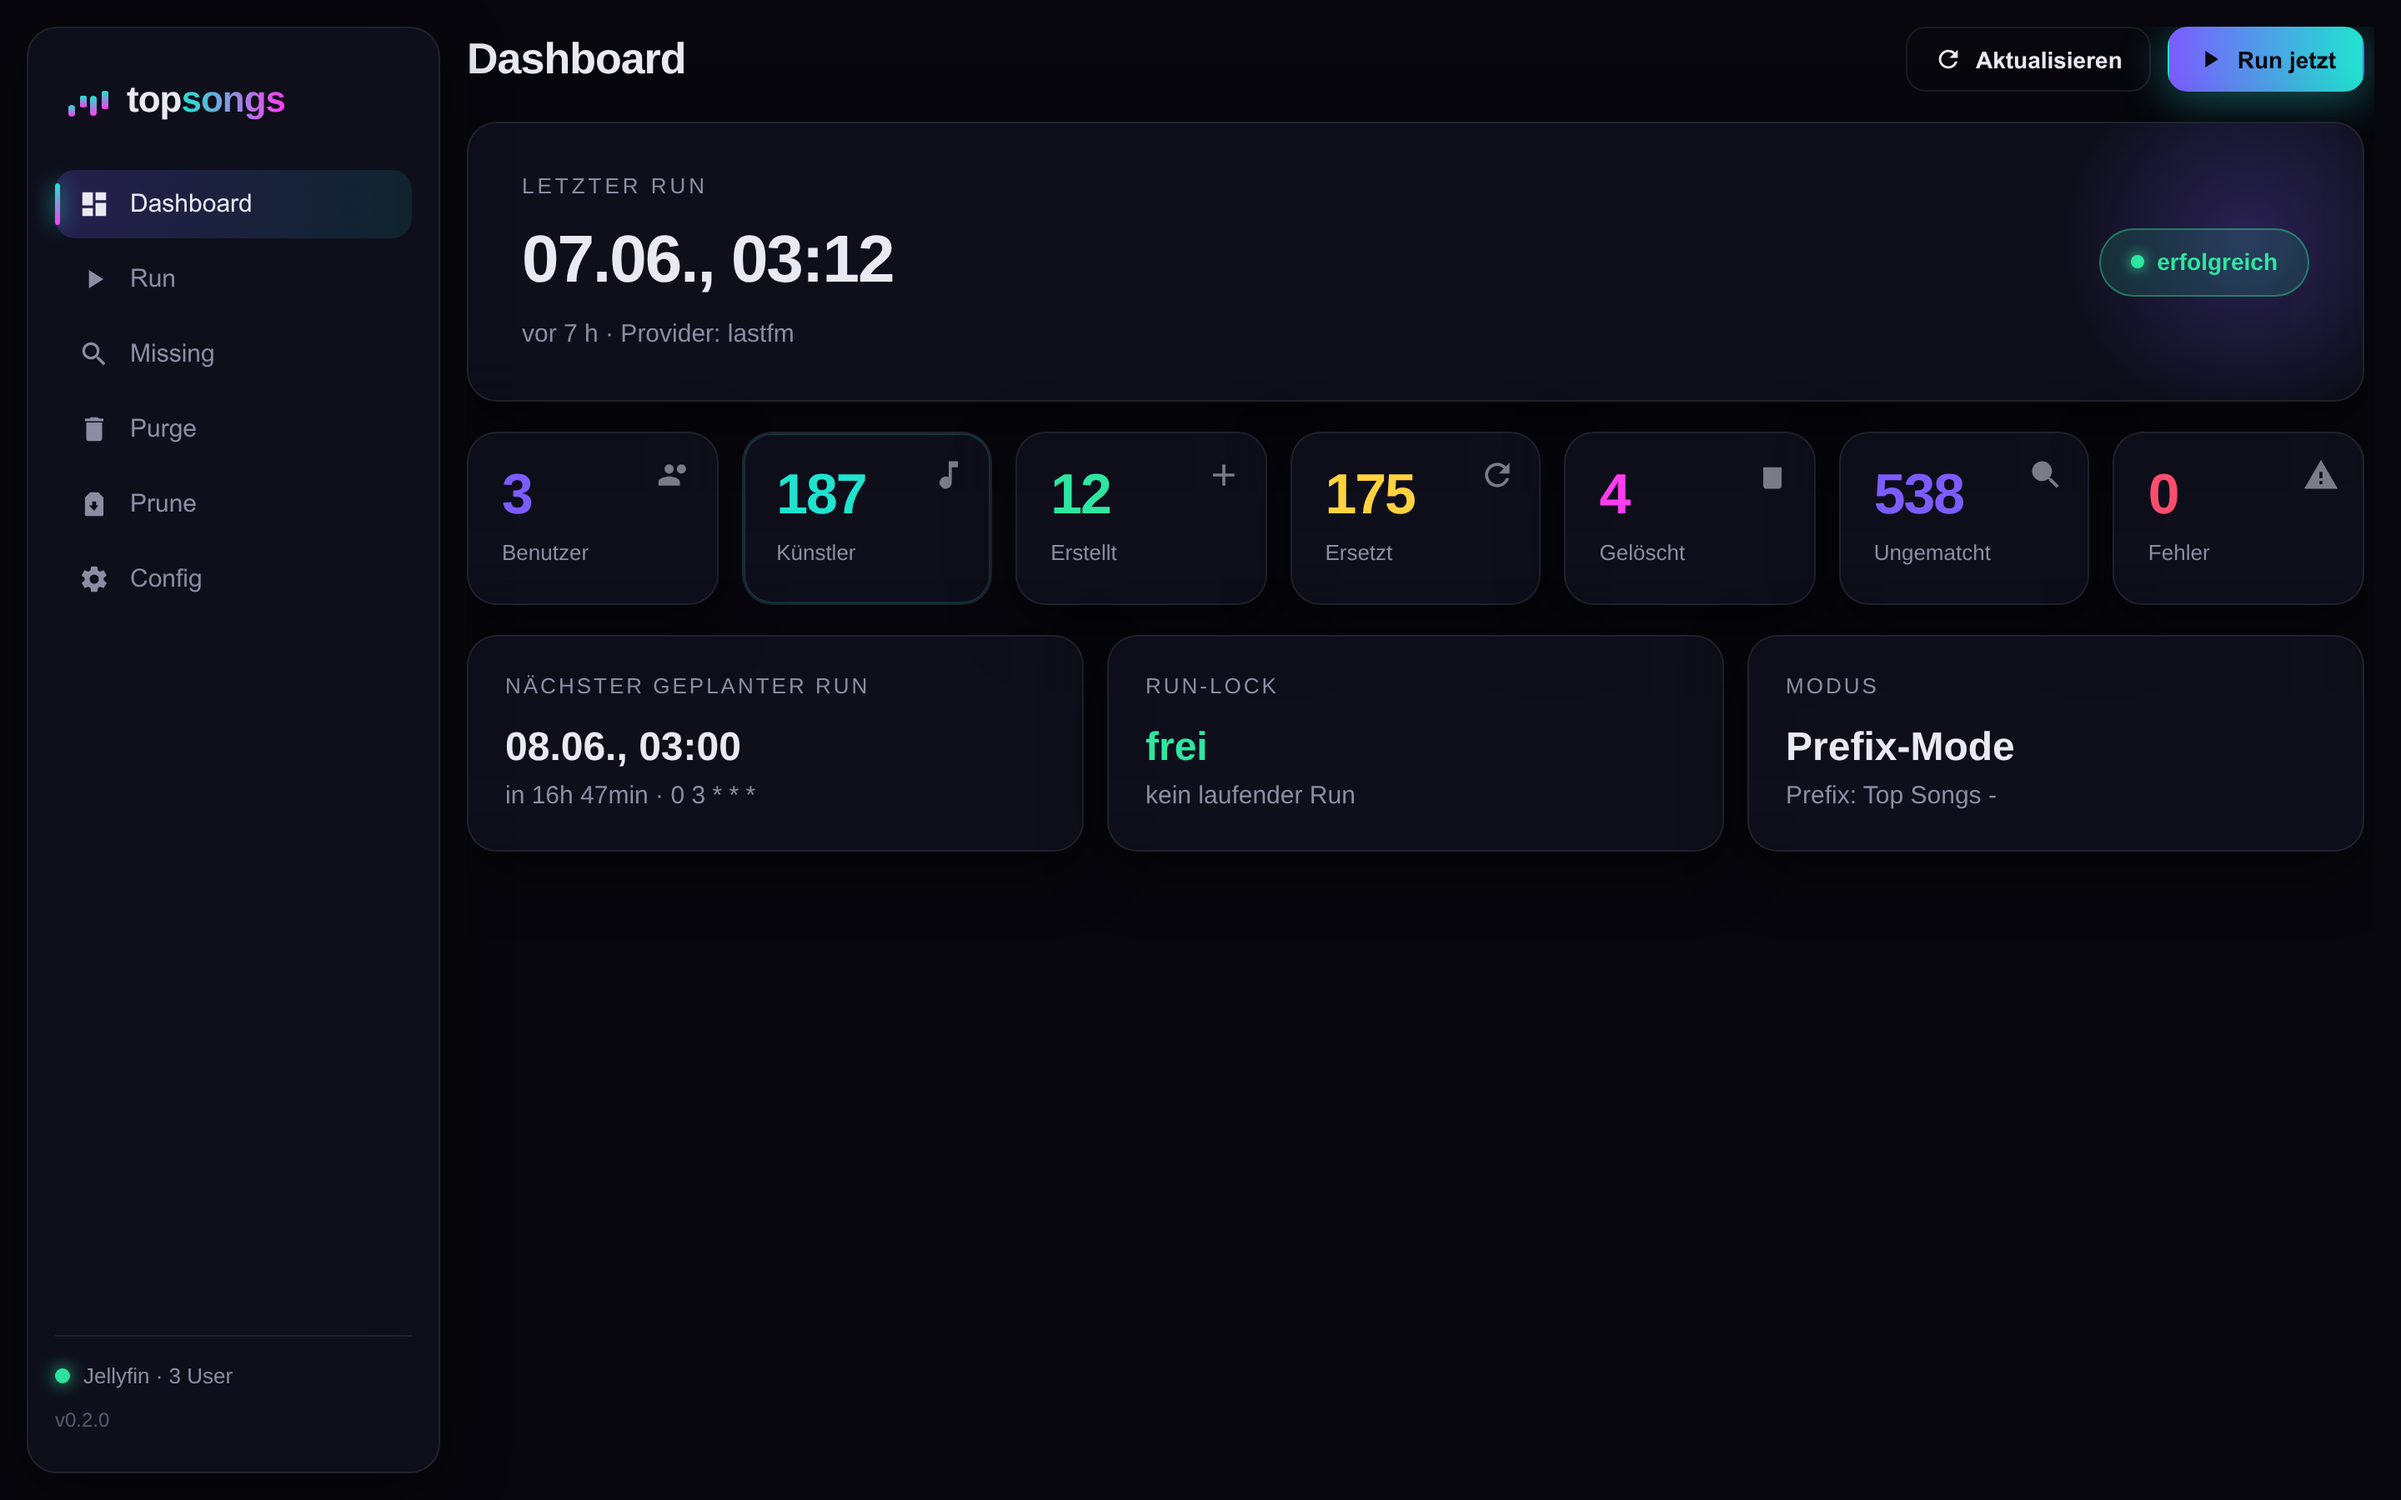
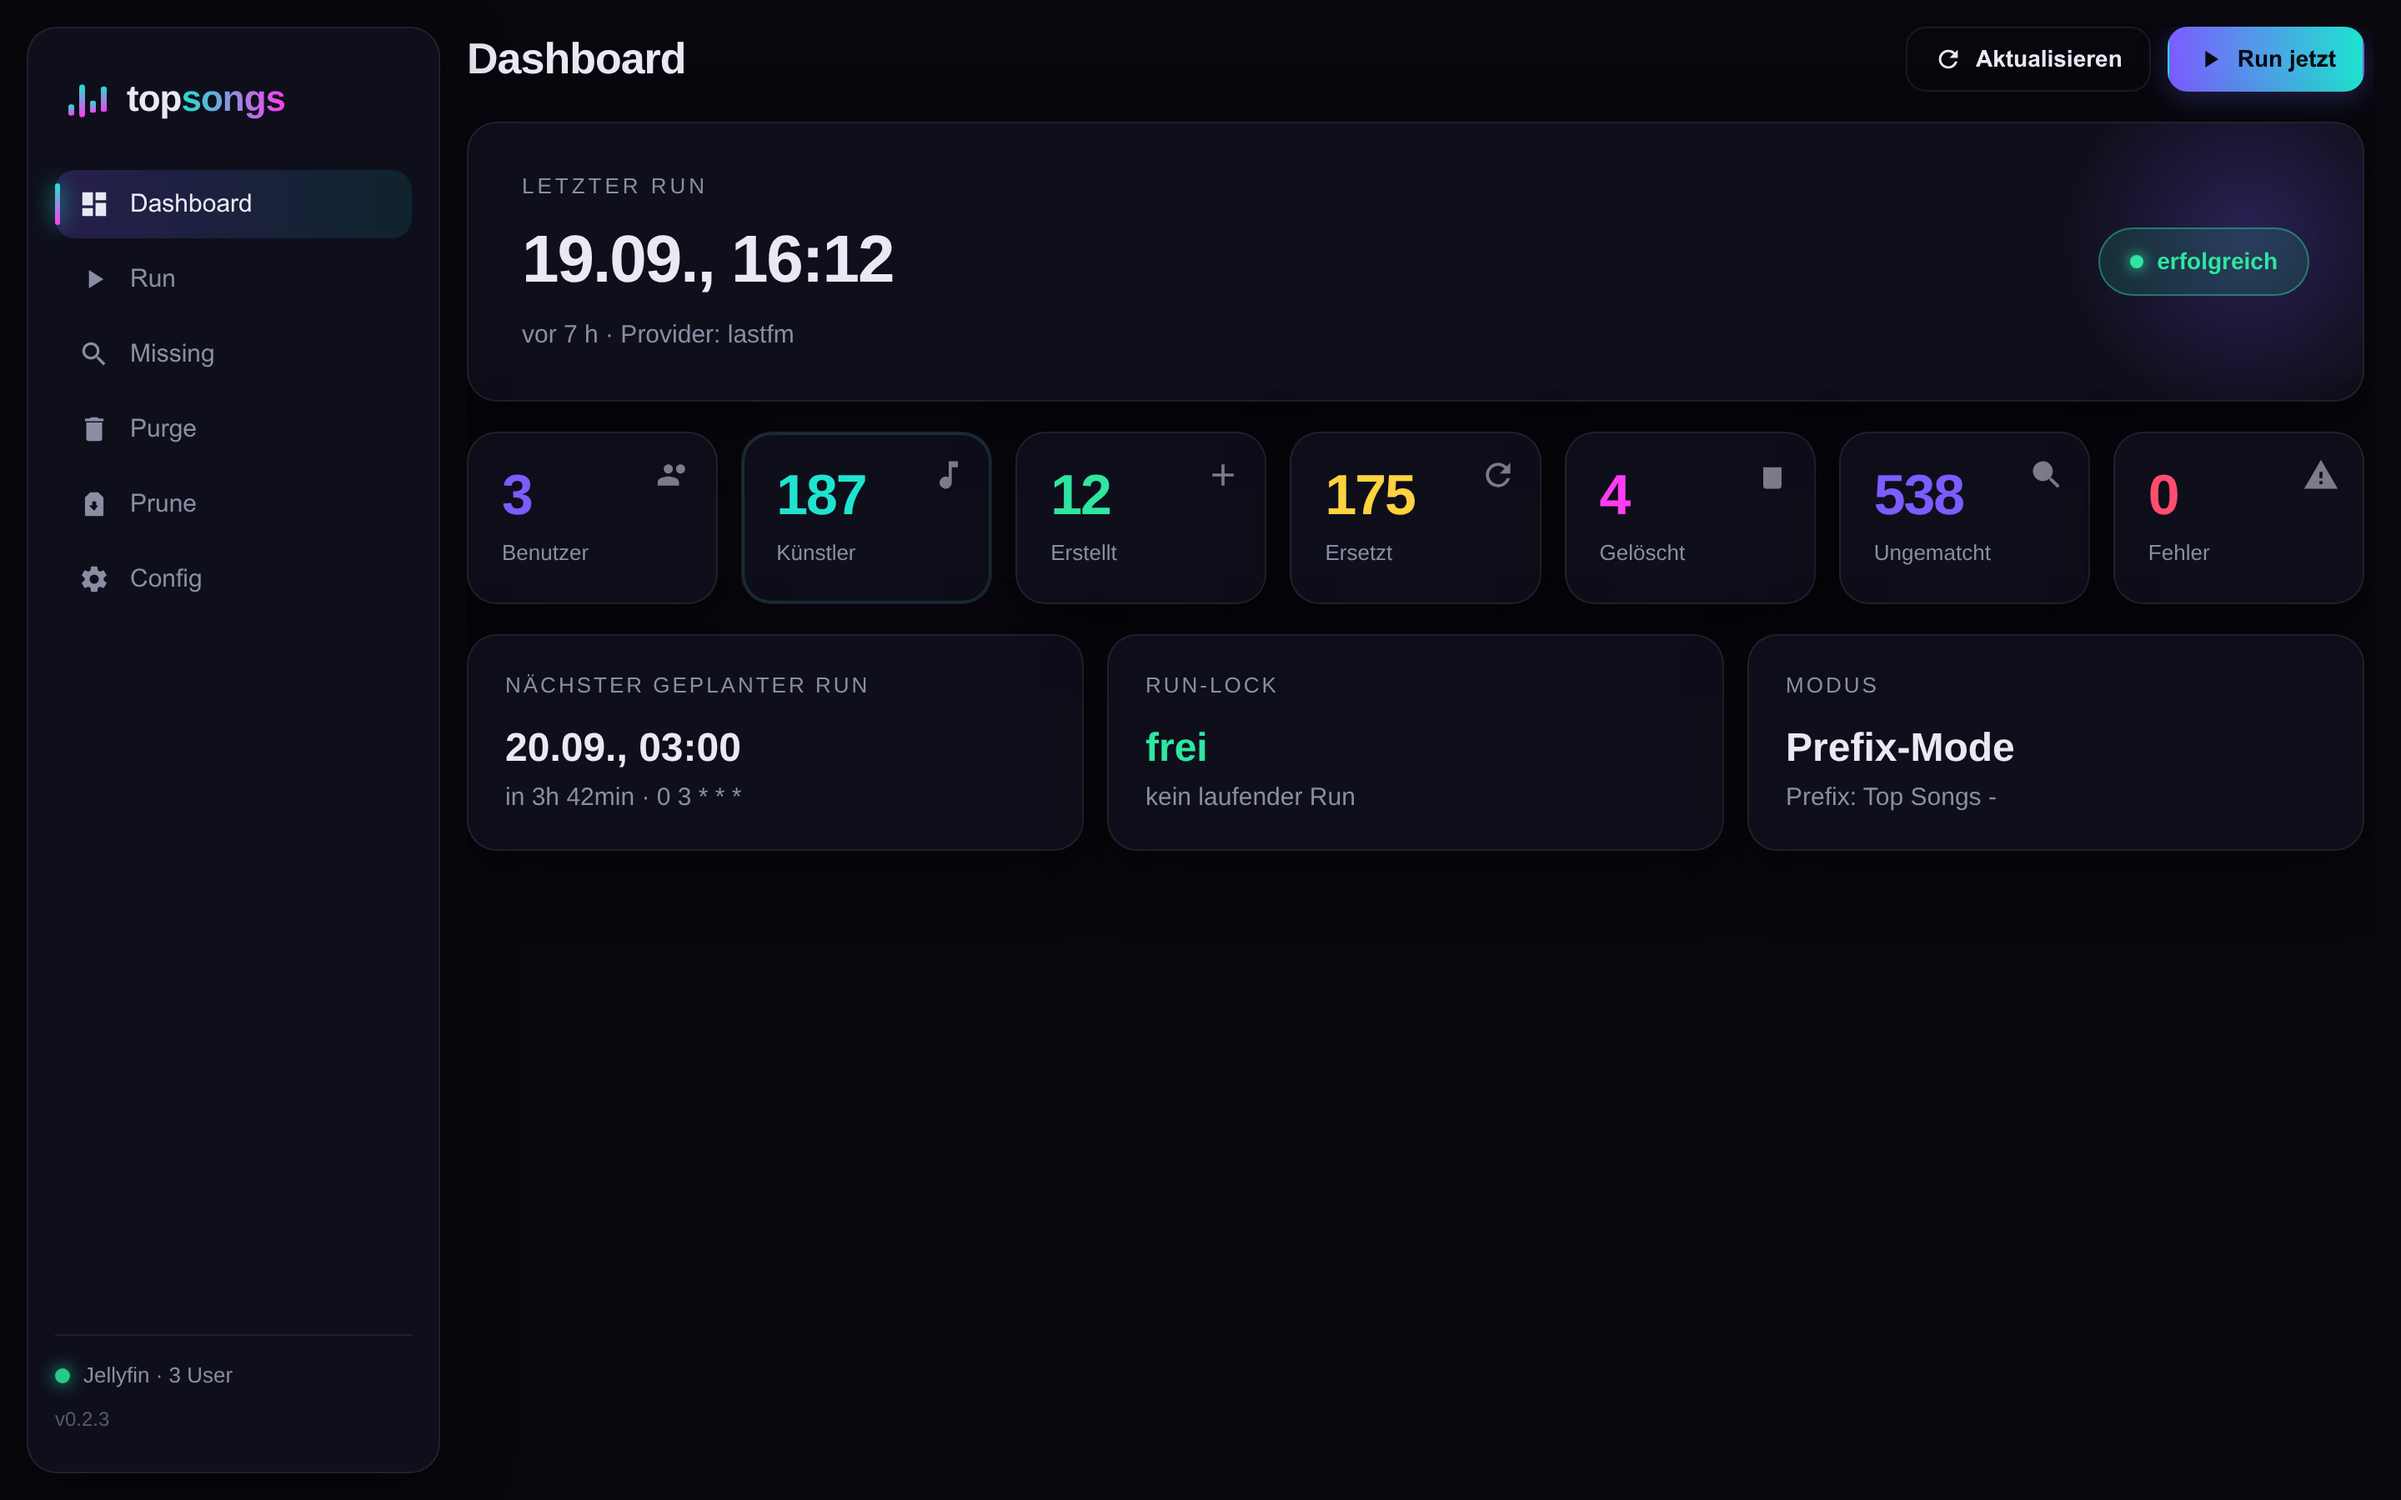
Sync from upstream: v0.2.3 — Authorization header auth, Jellyfin 10.9+ documented

diff --git a/topsongs/web/static/index.html b/topsongs/web/static/index.html
@@ -61,7 +61,7 @@
       </nav>
       <div class="sidebar-foot">
         <div id="jelly-dot" class="health"><span class="dot"></span><span id="jelly-text">Jellyfin …</span></div>
-        <div class="version">v0.2.1</div>
+        <div class="version">v0.2.3</div>
       </div>
     </aside>
 

diff --git a/tests/test_jellyfin_unittest.py b/tests/test_jellyfin_unittest.py
@@ -6,6 +6,12 @@ from topsongs.jellyfin import JellyfinClient, _is_retryable_http_error
 
 
 class JellyfinClientTests(unittest.TestCase):
+    def test_default_headers_use_authorization_token(self) -> None:
+        client = JellyfinClient(base_url="http://jellyfin:8096", api_key="token")
+
+        self.assertEqual(client.default_headers["Authorization"], 'MediaBrowser Token="token"')
+        self.assertNotIn("X-Emby-Token", client.default_headers)
+
     def test_create_playlist_uses_target_user_and_returns_created_id(self) -> None:
         client = JellyfinClient(base_url="http://jellyfin:8096", api_key="token")
         calls = []

diff --git a/topsongs/jellyfin.py b/topsongs/jellyfin.py
@@ -41,7 +41,8 @@ class JellyfinClient:
     @property
     def default_headers(self) -> dict[str, str]:
         return {
-            "X-Emby-Token": self.api_key,
+            # Jellyfin 12 rejects the legacy X-Emby-Token header (401).
+            "Authorization": f'MediaBrowser Token="{self.api_key}"',
             "Accept": "application/json",
         }
 

diff --git a/topsongs/__init__.py b/topsongs/__init__.py
@@ -1,2 +1,2 @@
 __all__ = ["__version__"]
-__version__ = "0.2.1"
+__version__ = "0.2.3"

diff --git a/CHANGELOG.md b/CHANGELOG.md
@@ -4,6 +4,19 @@ All notable changes to this project are documented here. The format is based on
 [Keep a Changelog](https://keepachangelog.com/en/1.1.0/), and this project
 adheres to [Semantic Versioning](https://semver.org/spec/v2.0.0.html).
 
+## [0.2.3] - 2026-09-19
+
+### Fixed
+- Jellyfin authentication now sends the API key in the
+  `Authorization: MediaBrowser Token="..."` header instead of the legacy
+  `X-Emby-Token` header, which Jellyfin 12 rejects with 401 — every API call
+  failed against a Jellyfin 12 server. Verified against Jellyfin 10.9, 10.10,
+  10.11, 12.0 and 12.1: the new header authenticates on all of them.
+
+### Documentation
+- Note the minimum supported server version (Jellyfin 10.9). Playlist creation
+  fails on 10.8 and older, which return 415 for `POST /Playlists`.
+
 ## [0.2.2] - 2026-07-07
 
 ### Fixed
@@ -73,6 +86,7 @@ adheres to [Semantic Versioning](https://semver.org/spec/v2.0.0.html).
 - Allow/deny filters for artists, users, and library paths; `DRY_RUN` preview
   mode; scoped, prefix-based playlist cleanup.
 
+[0.2.3]: https://github.com/np6126/topsongs/releases/tag/v0.2.3
 [0.2.2]: https://github.com/np6126/topsongs/releases/tag/v0.2.2
 [0.2.1]: https://github.com/np6126/topsongs/releases/tag/v0.2.1
 [0.2.0]: https://github.com/np6126/topsongs/releases/tag/v0.2.0

diff --git a/README.md b/README.md
@@ -28,7 +28,7 @@ A Jellyfin music library knows your artists but has no "best of this artist" pla
 
 ## Quick start
 
-You need a Jellyfin server with a music library, a Jellyfin API key, and a Last.fm API key. [Creating the API keys](#creating-api-keys) is covered below.
+You need a Jellyfin server (10.9 or newer) with a music library, a Jellyfin API key, and a Last.fm API key. [Creating the API keys](#creating-api-keys) is covered below.
 
 The recommended setup is Docker Compose from the `appdata/` directory:
 
@@ -337,4 +337,4 @@ Sensitive or private data may appear in:
 
 ## License
 
-`topsongs` is released under the [Apache-2.0](LICENSE) license. Current version: 0.2.1.
+`topsongs` is released under the [Apache-2.0](LICENSE) license. Current version: 0.2.3.
